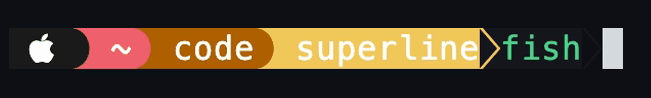
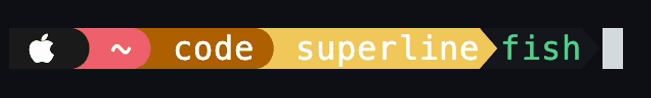
feat!: remove the angle_line separator

Changed region(s): [[0.7373, 0.2755, 0.768, 0.7041]]

diff --git a/site/config.html b/site/config.html
@@ -156,7 +156,7 @@
         <table class="opts">
           <thead><tr><th>Value</th><th>Type</th><th>Default</th><th>Description</th></tr></thead>
           <tbody>
-            <tr><td><code>separator</code></td><td>string</td><td><code>"chevron"</code></td><td><code>"chevron"</code>, <code>"round"</code>, <code>"angle_line"</code>, or <code>"none"</code> for no glyph at all.</td></tr>
+            <tr><td><code>separator</code></td><td>string</td><td><code>"chevron"</code></td><td><code>"chevron"</code>, <code>"round"</code>, or <code>"none"</code> for no glyph at all.</td></tr>
           </tbody>
         </table>
         <div class="examples">
@@ -184,18 +184,6 @@
   ]
 }</code></pre>
 </div><!-- /example -->
-          <div class="example" data-example="separator/angle_line">
-  <div class="ex-label">angle_line</div>
-  <figure class="term shot"><img src="img/config/separator-angle_line.png" width="325" height="49" loading="lazy" alt="The separator example: angle_line."></figure>
-  <pre class="json"><code>{
-  <span class="k">"left"</span>: [
-    { <span class="k">"separator"</span>: <span class="s">"angle_line"</span> },
-    <span class="s">"os"</span>,
-    { <span class="k">"cwd"</span>: { <span class="k">"max_length"</span>: <span class="n">40</span>, <span class="k">"wanted_seg_num"</span>: <span class="n">3</span> } },
-    <span class="s">"shell"</span>
-  ]
-}</code></pre>
-</div><!-- /example -->
           <div class="example" data-example="separator/none">
   <div class="ex-label">none</div>
   <figure class="term shot"><img src="img/config/separator-none.png" width="274" height="49" loading="lazy" alt="The separator example: none."></figure>
@@ -216,7 +204,7 @@
     <span class="s">"os"</span>,
     { <span class="k">"separator"</span>: <span class="s">"round"</span> },
     { <span class="k">"cwd"</span>: { <span class="k">"max_length"</span>: <span class="n">40</span>, <span class="k">"wanted_seg_num"</span>: <span class="n">3</span> } },
-    { <span class="k">"separator"</span>: <span class="s">"angle_line"</span> },
+    { <span class="k">"separator"</span>: <span class="s">"chevron"</span> },
     <span class="s">"shell"</span>
   ]
 }</code></pre>

diff --git a/site/index.html b/site/index.html
@@ -148,11 +148,11 @@
         <div class="copy-col">
           <h2>Shape the line</h2>
           <p>
-            Chevrons, rounded caps, thin angles or nothing at all. Separators, spacers and padding can go anywhere
+            Chevrons, rounded caps or nothing at all. Separators, spacers and padding can go anywhere
             in a row to split it into blocks.
           </p>
         </div>
-        <figure class="term"><img src="img/separators.png" width="408" height="130" loading="lazy" alt="The same path drawn with chevron, round, angle_line and none separators."></figure>
+        <figure class="term"><img src="img/separators.png" width="408" height="110" loading="lazy" alt="The same path drawn with chevron, round and none separators."></figure>
       </article>
 
       <article class="feature">

diff --git a/src/powerline.rs b/src/powerline.rs
@@ -35,7 +35,6 @@ impl Style {
 pub enum Separator {
     Chevron,
     Round,
-    AngleLine,
     None,
 }
 
@@ -52,8 +51,6 @@ impl Separator {
             (Separator::Chevron, Direction::Left) => "\u{e0b2}",
             (Separator::Round, Direction::Right) => "\u{e0b4}",
             (Separator::Round, Direction::Left) => "\u{e0b6}",
-            (Separator::AngleLine, Direction::Right) => "\u{e0b1}",
-            (Separator::AngleLine, Direction::Left) => "\u{e0b3}",
             (Separator::None, _) => "",
         }
     }
@@ -70,7 +67,6 @@ impl From<&SeparatorStyle> for Separator {
         match style {
             SeparatorStyle::Chevron => Separator::Chevron,
             SeparatorStyle::Round => Separator::Round,
-            SeparatorStyle::AngleLine => Separator::AngleLine,
             SeparatorStyle::None => Separator::None,
         }
     }
@@ -555,7 +551,7 @@ mod tests {
 
     #[test]
     fn other_separators_are_a_single_column_wide() {
-        for sep in [Separator::Chevron, Separator::Round, Separator::AngleLine] {
+        for sep in [Separator::Chevron, Separator::Round] {
             assert_eq!(sep.width(), 1);
         }
     }

diff --git a/src/config.rs b/src/config.rs
@@ -511,7 +511,6 @@ pub enum UsageDisplay {
 pub enum SeparatorStyle {
     Chevron,
     Round,
-    AngleLine,
     None,
 }
 

diff --git a/AGENTS.md b/AGENTS.md
@@ -16,6 +16,12 @@
   AI usage) under `<cache_dir>/superline/` when testing the async refresh paths
   from a cold start.
 - Default to creating a new branch and PR at the start of each session.
+- Before creating or merging a PR, check whether the docs need updating to match
+  it: `README.md`, `docs/`, and the website in `site/` (`index.html` and the
+  configuration reference in `config.html`). A change to a widget's options or
+  appearance usually also needs its examples in
+  `scripts/site-screenshots/components.json` and the screenshots regenerated with
+  `scripts/site-screenshots/generate.sh`.
 - When a change adds a new feature or option, also update the user's live
   superline config (`~/.config/superline/config.json`, or the file it points at)
   to use it so it can be tried immediately. If that config lives in a git repo,

diff --git a/README.md b/README.md
@@ -138,7 +138,7 @@ array.
 
 #### separator
 
-Sets the shape used between segments. Options are `"chevron"` (the default), `"round"`, `"angle_line"` and `"none"`
+Sets the shape used between segments. Options are `"chevron"` (the default), `"round"` and `"none"`
 (no separator glyph, segments sit flush against each other). It is stateful: the style applies to every following
 segment on the same side until changed again.
 
